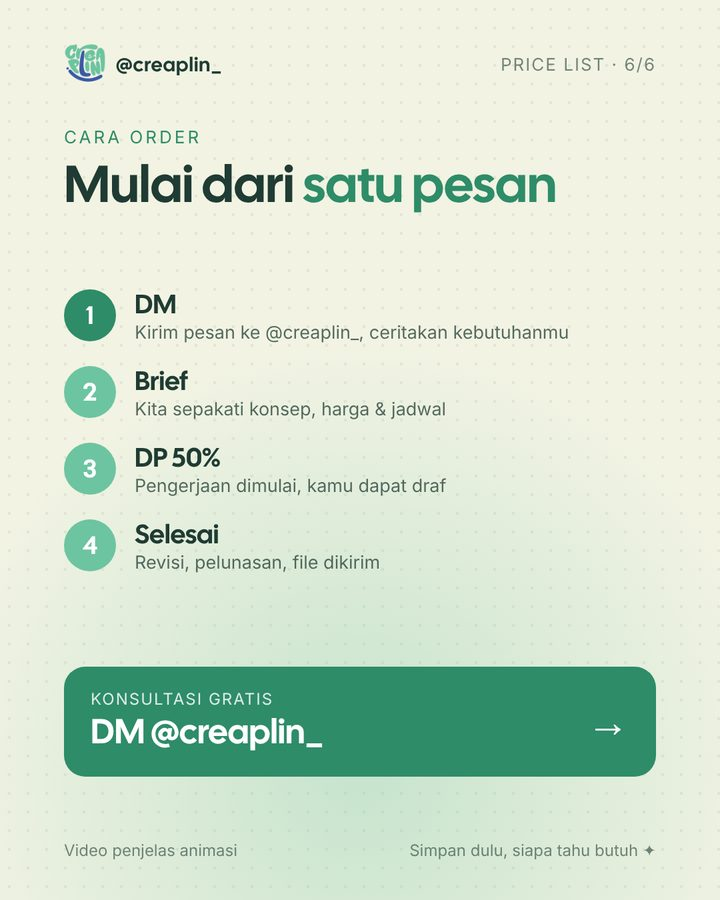
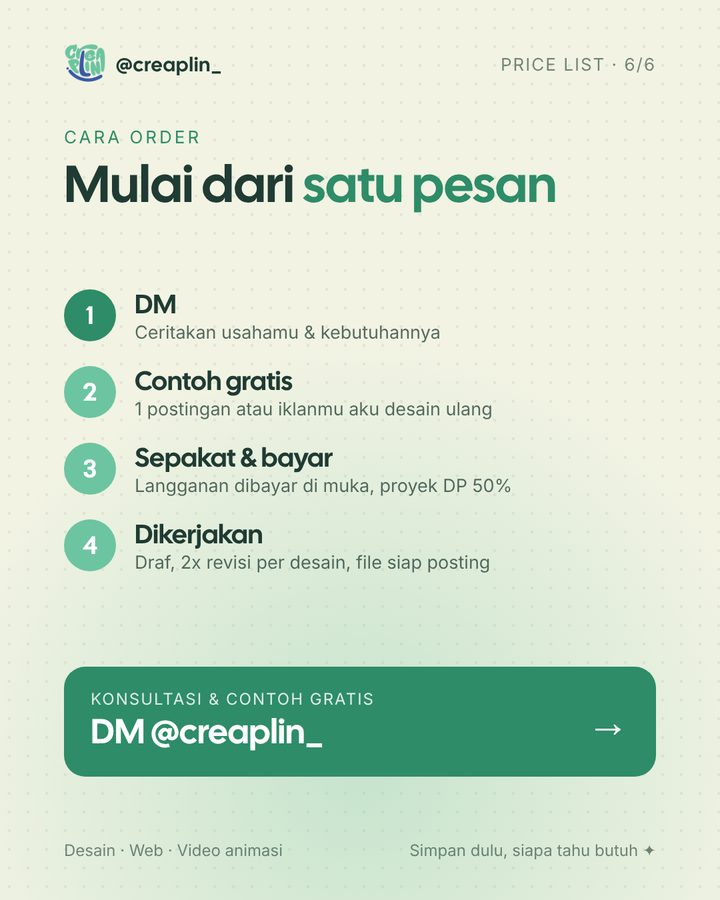
Harga baru: langganan desain bulanan, paket Ramadhan, video & web
Claude-Session: https://claude.ai/code/session_0152c3VXyVg5cc1kaHqK8TJf

diff --git a/index.html b/index.html
@@ -4,7 +4,7 @@
 <meta charset="utf-8">
 <meta name="viewport" content="width=device-width, initial-scale=1, viewport-fit=cover">
 <title>Creaplin: video penjelas animasi dan desain</title>
-<meta name="description" content="Video penjelas animasi 30 sampai 60 detik bergaya data titik untuk usaha, klinik, kursus, properti, dan lembaga. Hal rumit jadi gampang dimengerti. Mulai Rp 250 rb. Juga web profil usaha.">
+<meta name="description" content="Video penjelas animasi 30 sampai 60 detik bergaya data titik untuk usaha, klinik, kursus, properti, dan lembaga. Hal rumit jadi gampang dimengerti. Juga langganan desain konten bulanan dan web profil usaha.">
 <meta property="og:type" content="website">
 <meta property="og:title" content="Creaplin: video penjelas animasi dan desain">
 <meta property="og:description" content="Video penjelas animasi bergaya data titik: hal rumit jadi gampang dimengerti dalam 30 detik.">
@@ -675,54 +675,56 @@ body::before { content: ""; position: fixed; inset: 0 0 auto; height: env(safe-a
     <div class="wrap layanan__isi">
       <div class="kepala" data-muncul>
         <h2 id="layanan-judul">Layanan dan harga</h2>
-        <p>Harga disepakati sebelum dikerjakan. Semua sudah termasuk dua kali revisi.</p>
+        <p>Harga disepakati sebelum dikerjakan. Semua sudah termasuk dua kali revisi per desain.</p>
       </div>
       <div>
         <ul class="daftar">
           <li data-muncul="kiri">
-            <h3>Video penjelas animasi</h3><span class="harga">mulai Rp 250 rb</span>
+            <h3>Langganan desain bulanan</h3><span class="harga">mulai Rp&nbsp;1,5&nbsp;jt</span>
             <ul class="poin">
-              <li>Durasi 30 sampai 60 detik, format Reels dan TikTok</li>
-              <li>Sudah termasuk naskah, narasi suara, animasi, dan subtitle</li>
-              <li>Cocok untuk produk, layanan, atau program: klinik, kursus, properti, sekolah, dan lainnya</li>
+              <li>Paket 12: 12 desain sebulan (feed, carousel, materi iklan) dan caption: <b>Rp&nbsp;1,5&nbsp;jt</b>, normal Rp&nbsp;2&nbsp;jt</li>
+              <li>Paket 20: 20 desain dan 1 video motion 15 detik: <b>Rp&nbsp;2,5&nbsp;jt</b>, normal Rp&nbsp;3,2&nbsp;jt</li>
+              <li>Harga perkenalan untuk 3 klien pertama yang mulai sebelum 31 Januari 2027, berlaku 3 bulan pertama</li>
+              <li>Paket Coba 4 desain: <b>Rp&nbsp;500&nbsp;rb</b>, dipotong dari harga langganan kalau lanjut</li>
+              <li>1 desain = 1 postingan; carousel sampai 5 slide dihitung 2 desain</li>
             </ul>
           </li>
           <li data-muncul="kiri">
-            <h3>Paket 4 video sebulan</h3><span class="harga">Rp 800 rb</span>
+            <h3>Paket Ramadhan–Lebaran</h3><span class="harga">Rp&nbsp;1,8&nbsp;jt</span>
             <ul class="poin">
-              <li>Satu video setiap minggu</li>
-              <li>Satu gaya visual yang konsisten untuk akunmu</li>
-              <li>Harga ramah UMKM, sekitar <b>Rp 200 rb</b> per video</li>
+              <li>12 desain musiman: promo Ramadhan, jadwal imsakiyah berlogo, ucapan, dan jam buka Lebaran</li>
+              <li>Ditambah 1 video ucapan 15 detik</li>
+              <li><b>Rp&nbsp;1,8&nbsp;jt</b> untuk DP sebelum 31 Desember 2026; mulai Januari Rp&nbsp;2,2&nbsp;jt</li>
             </ul>
           </li>
           <li data-muncul="kiri">
-            <h3>Web profil usaha</h3><span class="harga">mulai Rp 1,5 jt</span>
+            <h3>Web profil usaha</h3><span class="harga">mulai Rp&nbsp;2,5&nbsp;jt</span>
             <ul class="poin">
-              <li>Web 1 halaman: profil, menu atau layanan, galeri, tombol WhatsApp, dan peta</li>
-              <li>Web 3 sampai 5 halaman: mulai <b>Rp 2,5 jt</b></li>
-              <li>Hosting gratis</li>
-              <li>Domain .com: <b>Rp 250 rb</b> per tahun, kami yang urus</li>
-              <li>Ubah menu dan harga sendiri lewat Google Sheet: tambah <b>Rp 250 rb</b></li>
-              <li>Diubah oleh kami: <b>Rp 50 rb</b> per perubahan, atau <b>Rp 100 rb</b> per bulan sepuasnya</li>
+              <li>Web 1 halaman: profil, menu atau layanan, galeri, tombol pesan via WhatsApp, dan peta</li>
+              <li>Web 3 sampai 5 halaman: <b>Rp&nbsp;4&nbsp;jt</b></li>
+              <li>Hosting gratis; domain .com <b>Rp&nbsp;250&nbsp;rb</b> per tahun, kami yang urus</li>
+              <li>Perawatan dan perubahan oleh kami: <b>Rp&nbsp;150&nbsp;rb</b> per bulan</li>
+              <li>Ubah menu dan harga sendiri lewat Google Sheet: tambah <b>Rp&nbsp;250&nbsp;rb</b></li>
               <li>Untuk web pengenalan usaha, bukan toko online</li>
             </ul>
           </li>
           <li data-muncul="kiri">
-            <h3>Desain feed dan carousel</h3><span class="harga">mulai Rp 75 rb</span>
+            <h3>Video animasi</h3><span class="harga">mulai Rp&nbsp;500&nbsp;rb</span>
             <ul class="poin">
-              <li>Satuan, untuk feed atau story</li>
-              <li>Paket 12 desain sebulan: <b>Rp 750 rb</b>, lengkap dengan caption</li>
+              <li>Video penjelas 45 sampai 60 detik bergaya data titik, lengkap dengan naskah, narasi, animasi, dan subtitle: <b>Rp&nbsp;2,5&nbsp;jt</b></li>
+              <li>Video motion iklan 15 sampai 30 detik: <b>Rp&nbsp;750&nbsp;rb</b></li>
+              <li>Video ucapan dari template, dengan logo dan warna usahamu: <b>Rp&nbsp;500&nbsp;rb</b></li>
             </ul>
           </li>
           <li data-muncul="kiri">
-            <h3>Logo dan identitas</h3><span class="harga">mulai Rp 500 rb</span>
+            <h3>Logo dan materi cetak</h3><span class="harga">mulai Rp&nbsp;500&nbsp;rb</span>
             <ul class="poin">
-              <li>Logo, warna, dan font</li>
-              <li>Tiga contoh penerapan</li>
+              <li>Logo dan panduan merek (warna, huruf, contoh penerapan): mulai <b>Rp&nbsp;1,5&nbsp;jt</b></li>
+              <li>Menu, brosur, atau kemasan: mulai <b>Rp&nbsp;500&nbsp;rb</b></li>
             </ul>
           </li>
         </ul>
-        <p class="layanan__catatan muted">Pembayaran: DP 50% di awal, pelunasan sebelum file dikirim. Harga dapat berubah sewaktu-waktu.</p>
+        <p class="layanan__catatan muted">Pembayaran: langganan dibayar di muka tiap bulan; proyek DP 50% di awal, pelunasan sebelum file dikirim. Harga dapat berubah sewaktu-waktu.</p>
       </div>
     </div>
   </section>
@@ -849,9 +851,9 @@ body::before { content: ""; position: fixed; inset: 0 0 auto; height: env(safe-a
 <script>
 const KATEGORI = [
   { id: 'video-edukasi', judul: 'Video edukasi animasi', sampul: 'cv-video.jpg',
-    ringkas: 'Video 30 sampai 60 detik bergaya data titik untuk Reels dan TikTok.',
+    ringkas: 'Video 45 sampai 60 detik bergaya data titik untuk Reels dan TikTok.',
     teks: 'Naskah, narasi, animasi data titik, dan subtitle karaoke. Untuk menjelaskan produk, layanan, atau program yang sulit dijelaskan lewat poster.',
-    harga: 'Rp 250 rb', waktu: '3–5 hari',
+    harga: 'Rp 2,5 jt', waktu: '5–7 hari',
     proyek: [
       { judul: 'Creapedia: Hitung Waktumu', teks: 'Umur dan sisa Ramadhan diubah jadi titik: satu titik untuk satu bulan, atau satu Ramadhan.', rasio: '9 / 16', kolom: 4, gambar: [['hw1.jpg', 'Grid titik umur 60 tahun'], ['ramadhan2.jpg', '35 kesempatan Lailatul Qadr dalam titik'], ['th-hw1.jpg', 'Sampul video Kalau Umurmu 60 Tahun'], ['th-ramadhan.jpg', 'Sampul video Sisa Ramadhanmu']] },
       { judul: 'Creapedia: Bedah Surah', teks: 'Surah pendek dibedah kata demi kata: satu titik untuk satu kata, dibandingkan dengan seluruh Al-Qur\'an.', rasio: '9 / 16', kolom: 4, gambar: [['ikhlas.jpg', 'Al-Ikhlas kata demi kata'], ['fatihah.jpg', 'Al-Fatihah dalam gelembung dialog hadits qudsi'], ['th-ikhlas.jpg', 'Sampul video Al-Ikhlas'], ['th-fatihah.jpg', 'Sampul video Al-Fatihah']] },
@@ -859,13 +861,13 @@ const KATEGORI = [
     ] },
   { id: 'desain-feed', judul: 'Desain feed dan carousel', sampul: 'cv-desain.jpg',
     ringkas: 'Carousel campaign, postingan, dan sampul video untuk Instagram.',
-    teks: 'Postingan satuan, carousel edukasi atau promo, sampul video, sampai paket 12 desain sebulan lengkap dengan caption.',
-    harga: 'Rp 75 rb', waktu: '1–3 hari',
+    teks: 'Langganan bulanan: feed, carousel, dan materi iklan dalam satu tema, lengkap dengan caption. Mau coba dulu? Ada Paket Coba 4 desain.',
+    harga: 'Rp 1,5 jt/bulan', waktu: '1–3 hari',
     proyek: [
       { judul: 'Ponfit: Challenge 17an bersama Dino Pon', info: 'Klien: Ponfit, gym di Bukittinggi. 2025.', teks: 'Campaign lomba deadlift 17 Agustus yang meriah ala acara olahraga. Cover animasi dibuka dengan gigitan maskot Dino Pon, lalu slide aturan lomba. Desain dan animasi oleh Creaplin; maskot milik Ponfit.', rasio: '4 / 5', kolom: 4, gambar: [['ponfit-1.mp4', 'Cover animasi Bahkan Challenge: maskot Dino Pon menggigit layar lalu cover muncul', 'ponfit-1.jpg'], ['ponfit-2.jpg', 'Slide Challenge 17an: kelas dan total hadiah'], ['ponfit-3.jpg', 'Slide teknis challenge'], ['ponfit-4.jpg', 'Slide syarat dan ketentuan'], ['ponfit-5.jpg', 'Slide penilaian dan prosedur angkatan'], ['ponfit-6.jpg', 'Slide pelanggaran umum'], ['ponfit-7.jpg', 'Slide hadiah: Samsung Fit 3, Huawei Band 10, dan voucher member']] },
       { judul: 'Beranda Brand: Call to Action dan Call to Value', info: 'Magang di Dipdop, untuk akun Beranda Brand. Sekitar 2024.', teks: 'Carousel edukasi marketing yang menjelaskan beda dua jenis ajakan, dengan judul bergaya kertas sobek, foto potong, dan sorotan kuning pada kalimat kunci.', rasio: '1 / 1', kolom: 4, gambar: [['beranda-1.jpg', 'Sampul: Call to Action dan Call to Value, bedanya apa?'], ['beranda-2.jpg', 'Slide Same but Different'], ['beranda-3.jpg', 'Slide penjelasan Call to Action dengan contoh'], ['beranda-4.jpg', 'Slide penjelasan Call to Value dengan contoh']] },
       { judul: 'Kawan Kerja: Tanda-tanda bisnis butuh website', info: 'Magang, untuk akun Kawan Kerja, jasa pembuatan website. 2024.', teks: 'Carousel edukasi yang mengajak pemilik bisnis membuat website: motif gelombang biru, ilustrasi karakter, dan aksen bintang oranye yang dipakai konsisten di semua slide.', rasio: '1 / 1', kolom: 5, gambar: [['kawankerja-1.jpg', 'Sampul: tanda-tanda bisnis kamu butuh website'], ['kawankerja-2.jpg', 'Slide 01: tanda-tanda bisnis yang lesu'], ['kawankerja-3.jpg', 'Slide 02: manfaat website untuk bisnis'], ['kawankerja-4.jpg', 'Slide 03: masih ragu membuat website?'], ['kawankerja-5.jpg', 'Slide penutup: ajakan dan kontak Kawan Kerja']] },
-      { judul: 'Price list Creaplin', teks: 'Carousel 6 slide berisi layanan, harga, paket bulanan, web profil, dan cara order, dengan versi story-nya.', rasio: '4 / 5', kolom: 3, gambar: [['pl1.jpg', 'Slide sampul price list'], ['pl2.jpg', 'Slide layanan video edukasi animasi'], ['pl3.jpg', 'Slide harga desain grafis'], ['pl4.jpg', 'Slide paket bulanan'], ['pl5.jpg', 'Slide web profil usaha'], ['pl6.jpg', 'Slide cara order']] },
+      { judul: 'Price list Creaplin', teks: 'Carousel 6 slide: langganan desain, paket Ramadhan, video animasi, web dan identitas usaha, serta cara order, dengan versi story-nya.', rasio: '4 / 5', kolom: 3, gambar: [['pl1.jpg', 'Slide sampul price list'], ['pl2.jpg', 'Slide langganan desain bulanan'], ['pl3.jpg', 'Slide paket Ramadhan–Lebaran'], ['pl4.jpg', 'Slide video animasi'], ['pl5.jpg', 'Slide web dan identitas usaha'], ['pl6.jpg', 'Slide cara order']] },
       { judul: 'Cara order Creaplin', teks: 'Carousel 6 slide yang menjelaskan alur order, dari DM sampai file dikirim.', rasio: '4 / 5', kolom: 3, gambar: [['co1.jpg', 'Slide sampul cara order'], ['co2.jpg', 'Langkah 1 dan 2'], ['co3.jpg', 'Langkah 3 dan 4'], ['co4.jpg', 'Langkah 5 dan 6'], ['co5.jpg', 'Estimasi waktu pengerjaan'], ['co6.jpg', 'Ajakan konsultasi']] },
       { judul: 'Sampul video Creapedia', teks: 'Sampul yang tetap terbaca saat tampil kecil di grid profil.', rasio: '9 / 16', kolom: 6, gambar: [['th-hw1.jpg', 'Sampul Hitung Waktumu 01'], ['th-ramadhan.jpg', 'Sampul Hitung Waktumu 02'], ['th-ikhlas.jpg', 'Sampul Bedah Surah 01'], ['th-fatihah.jpg', 'Sampul Bedah Surah 02'], ['th-adam.jpg', 'Sampul Kisah Nabi Adam'], ['th-nuh.jpg', 'Sampul Kisah Nabi Nuh']] }
     ] },
@@ -884,14 +886,14 @@ const KATEGORI = [
   { id: 'poster', judul: 'Poster dan eksplorasi', sampul: 'cv-poster.jpg',
     ringkas: 'Tujuh poster latihan: kolase, tipografi besar, iklan makanan, dan tekstur cetak.',
     teks: 'Eksplorasi pribadi di luar pesanan klien. Tempat mencoba komposisi, huruf, dan tekstur yang nanti bisa dipakai di proyekmu.',
-    harga: 'Rp 75 rb', waktu: '1–2 hari',
+    harga: 'Rp 150 rb', waktu: '1–2 hari',
     proyek: [
       { judul: 'Poster latihan', info: 'Proyek pribadi, dibuat dengan nama Dareh Design. 2024–2025.', teks: 'Latihan berbagai gaya: poster kajian dengan foto potong, kolase dengan tipografi raksasa, nuansa Jepang terinspirasi Senbonzakura dari Bleach, iklan makanan dan minuman, sampai poster gelap bergaya horor. Poster kajian dibuat sebagai latihan, bukan pesanan resmi.', rasio: '4 / 5', kolom: 3, gambar: [['poster-senbonzakura.jpg', 'Poster Senbonzakura Kageyoshi bernuansa Jepang'], ['poster-october.jpg', 'Poster kolase October, Something New'], ['poster-gazwah.jpg', 'Poster kajian latihan: Gazwah Bagi Bagi Hadiah'], ['poster-burger.jpg', 'Poster iklan The Big Boss Burger'], ['poster-gorengan.jpg', 'Poster menu gorengan Rp 10 ribu'], ['poster-scarlet.jpg', 'Poster minuman Scarlet Twist'], ['poster-goodnight.jpg', 'Poster Good Night bergaya horor merah hitam']] }
     ] },
   { id: 'motion-promosi', judul: 'Video promosi dan motion', sampul: 'cv-motion.jpg',
     ringkas: 'Cover motion, video promosi, dan animasi pixel art untuk media sosial.',
     teks: 'Teks bergerak, narasi suara, dan subtitle, dengan semua tulisan aman dari tombol Reels dan TikTok.',
-    harga: 'Rp 250 rb', waktu: '3–5 hari',
+    harga: 'Rp 750 rb', waktu: '3–5 hari',
     proyek: [
       { judul: 'mots × Creaplin: War Torn City of Martinaise', info: 'Kolaborasi dengan mots, media yang membahas musik. 2026.', teks: 'Cover motion pixel art untuk postingan feed mots, bertema kota Martinaise dari game Disco Elysium. Kamera turun dari langit senja, kota industri muncul, lalu judul retro memudar masuk. Seluruh animasi oleh Creaplin.', rasio: '4 / 5', kolom: 3, gambar: [['mots-1.mp4', 'Cover motion War Torn City of Martinaise: kamera turun dari langit ke dermaga kota', 'mots-1.jpg'], ['mots-2.jpg', 'Awal animasi: kota industri muncul dari balik langit jingga'], ['mots-1.jpg', 'Akhir animasi: judul retro dan dua karakter pixel di dermaga']] },
       { judul: 'Ponfit: cover animasi Challenge 17an', info: 'Klien: Ponfit, gym di Bukittinggi. 2025.', teks: 'Cover carousel yang bergerak: maskot Dino Pon menggigit layar, lalu judul, hadiah, dan "You vs Dino Pon" memantul masuk.', rasio: '4 / 5', kolom: 3, gambar: [['ponfit-1.mp4', 'Cover animasi Bahkan Challenge', 'ponfit-1.jpg']] },
